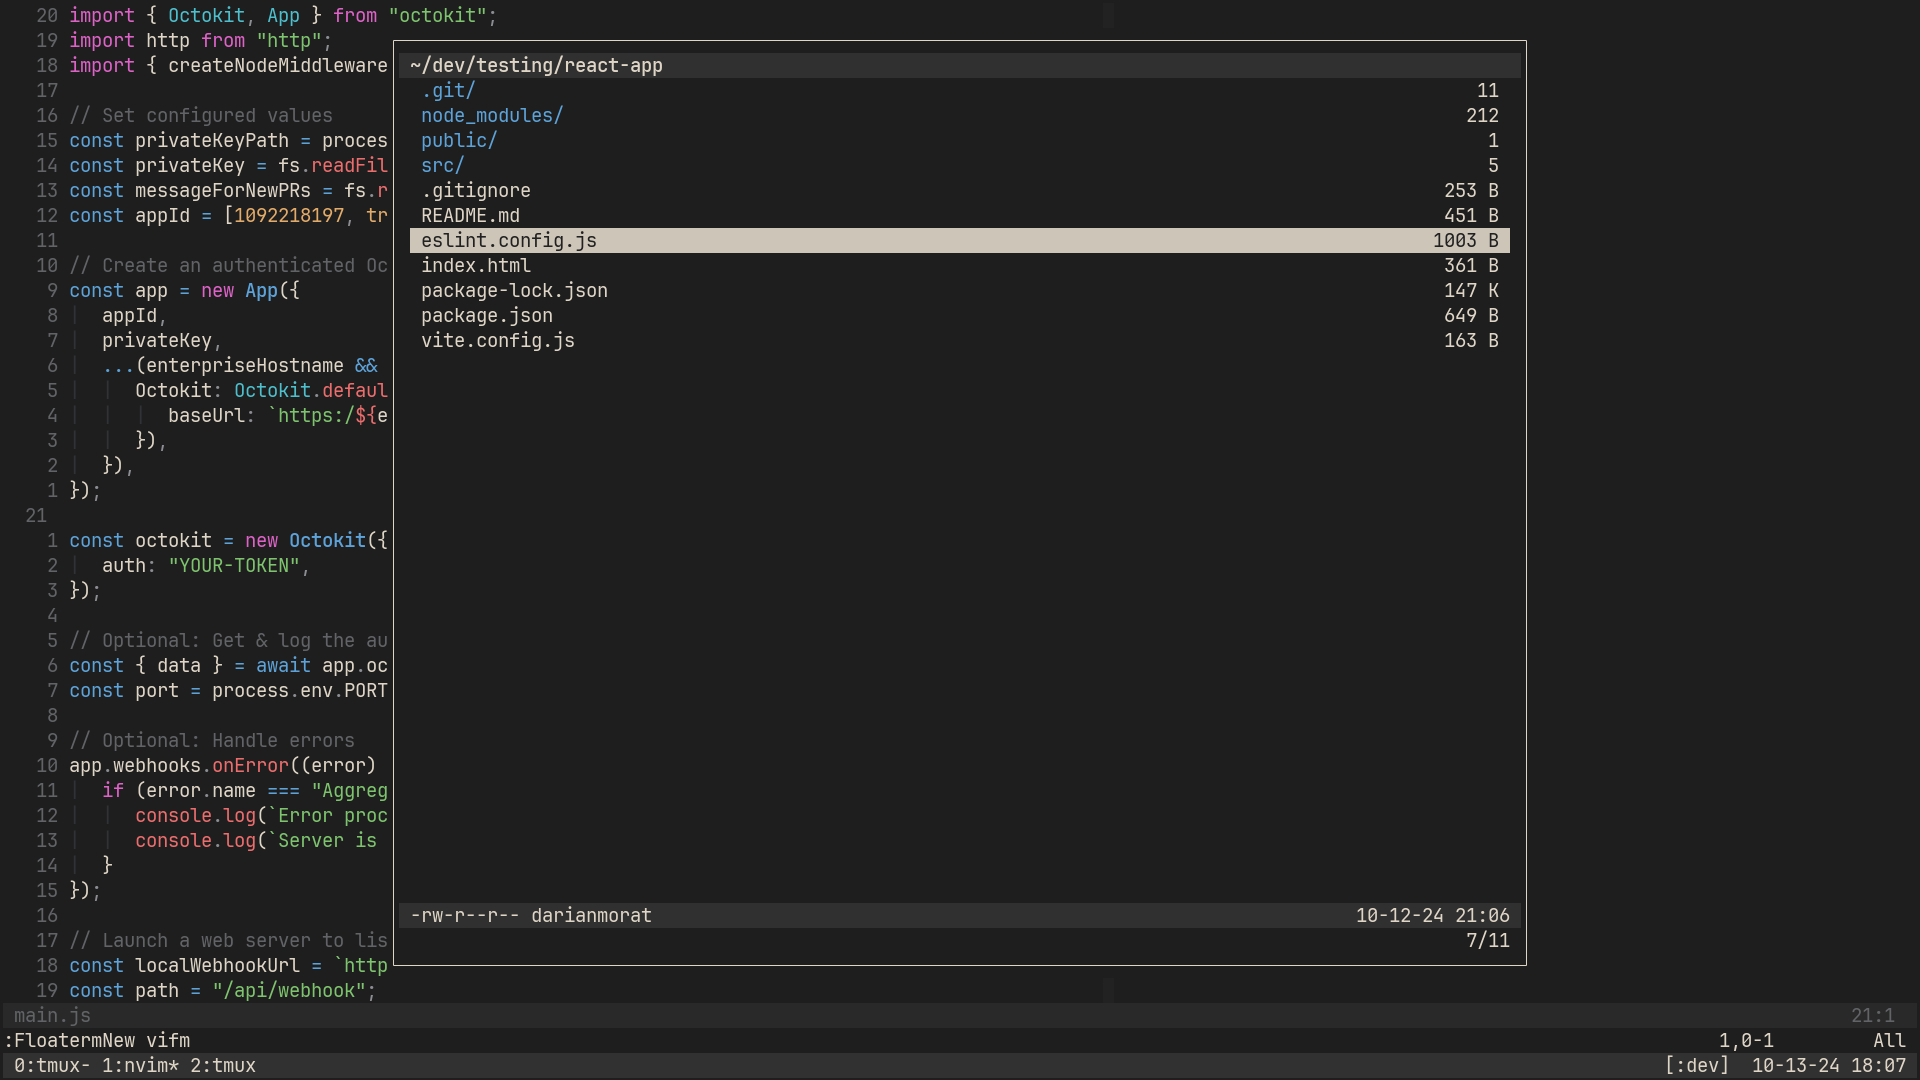
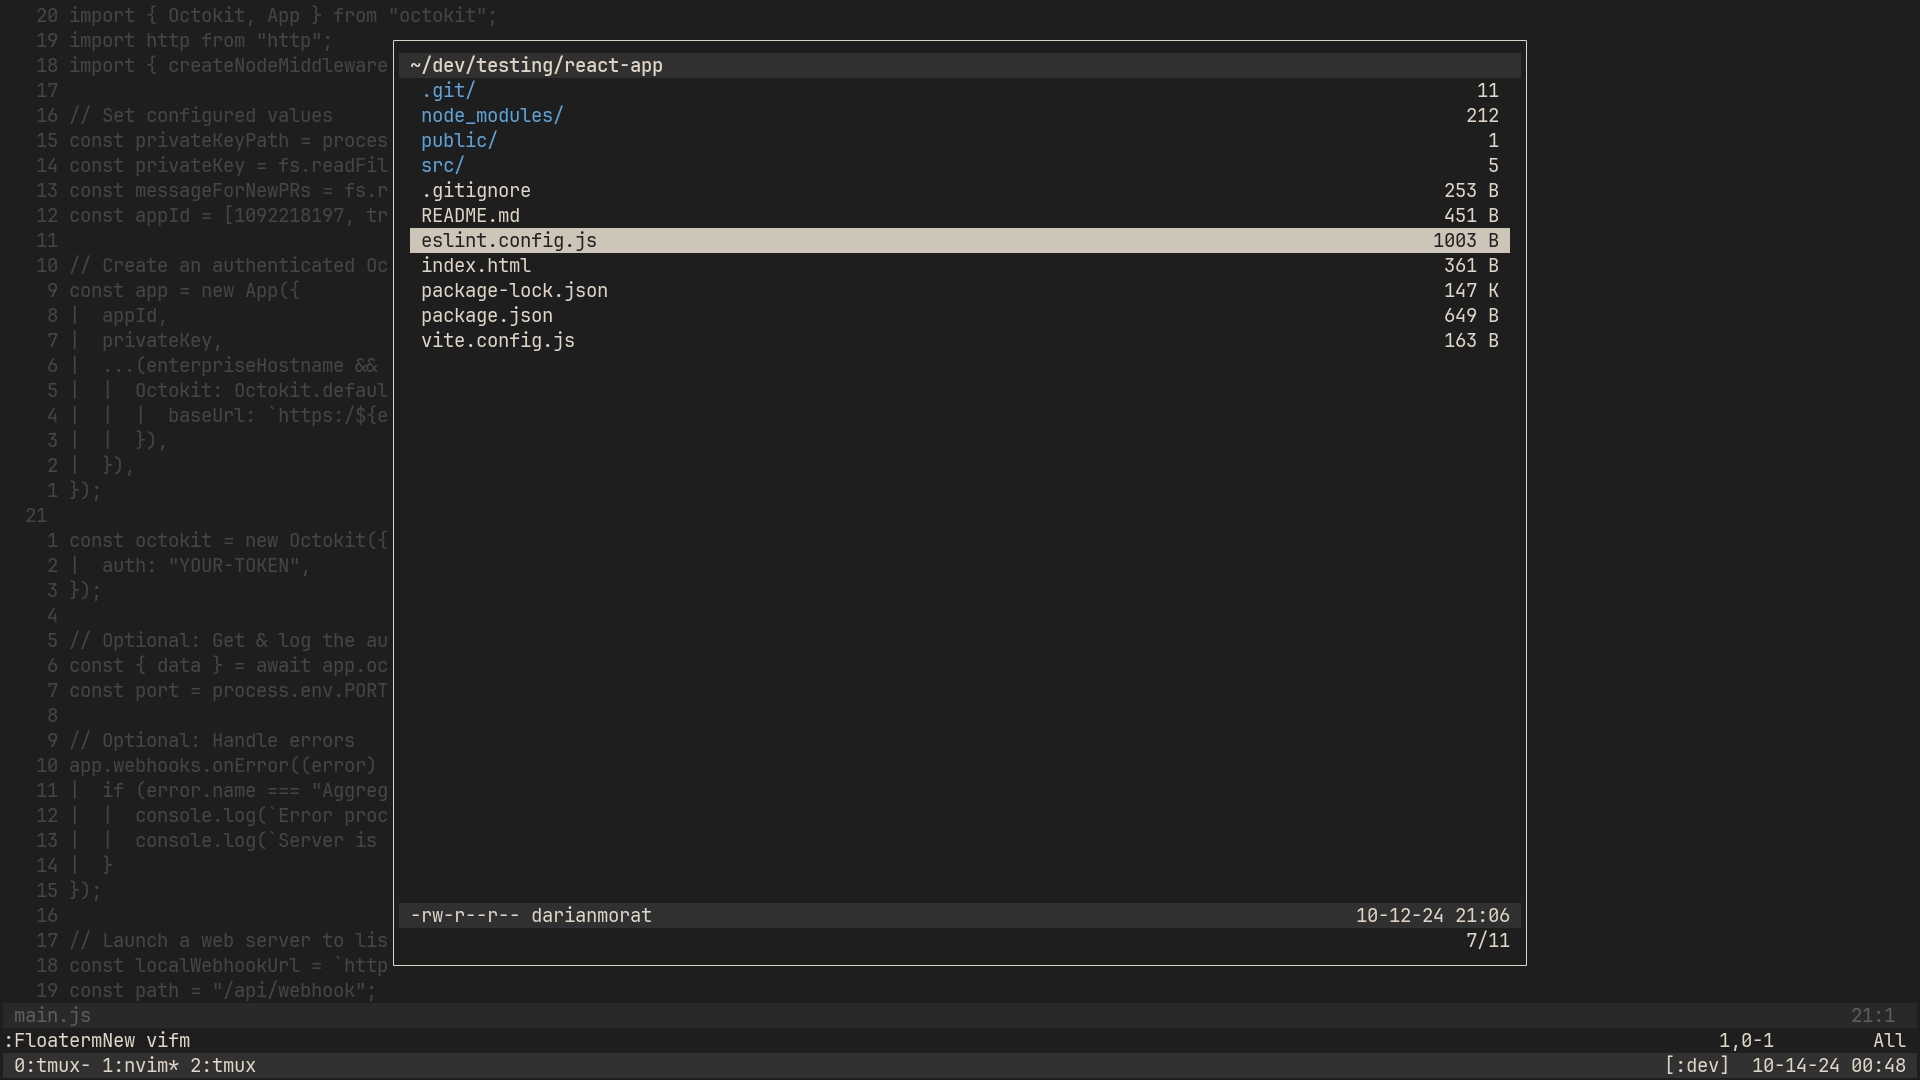
Update images & README.md

diff --git a/README.md b/README.md
@@ -62,3 +62,6 @@
 ##
 <img src="images/nvim4.png" alt="">
 <img src="images/vscode4.png" alt="">
+
+##
+<img src="images/nvim5.png" alt="">
